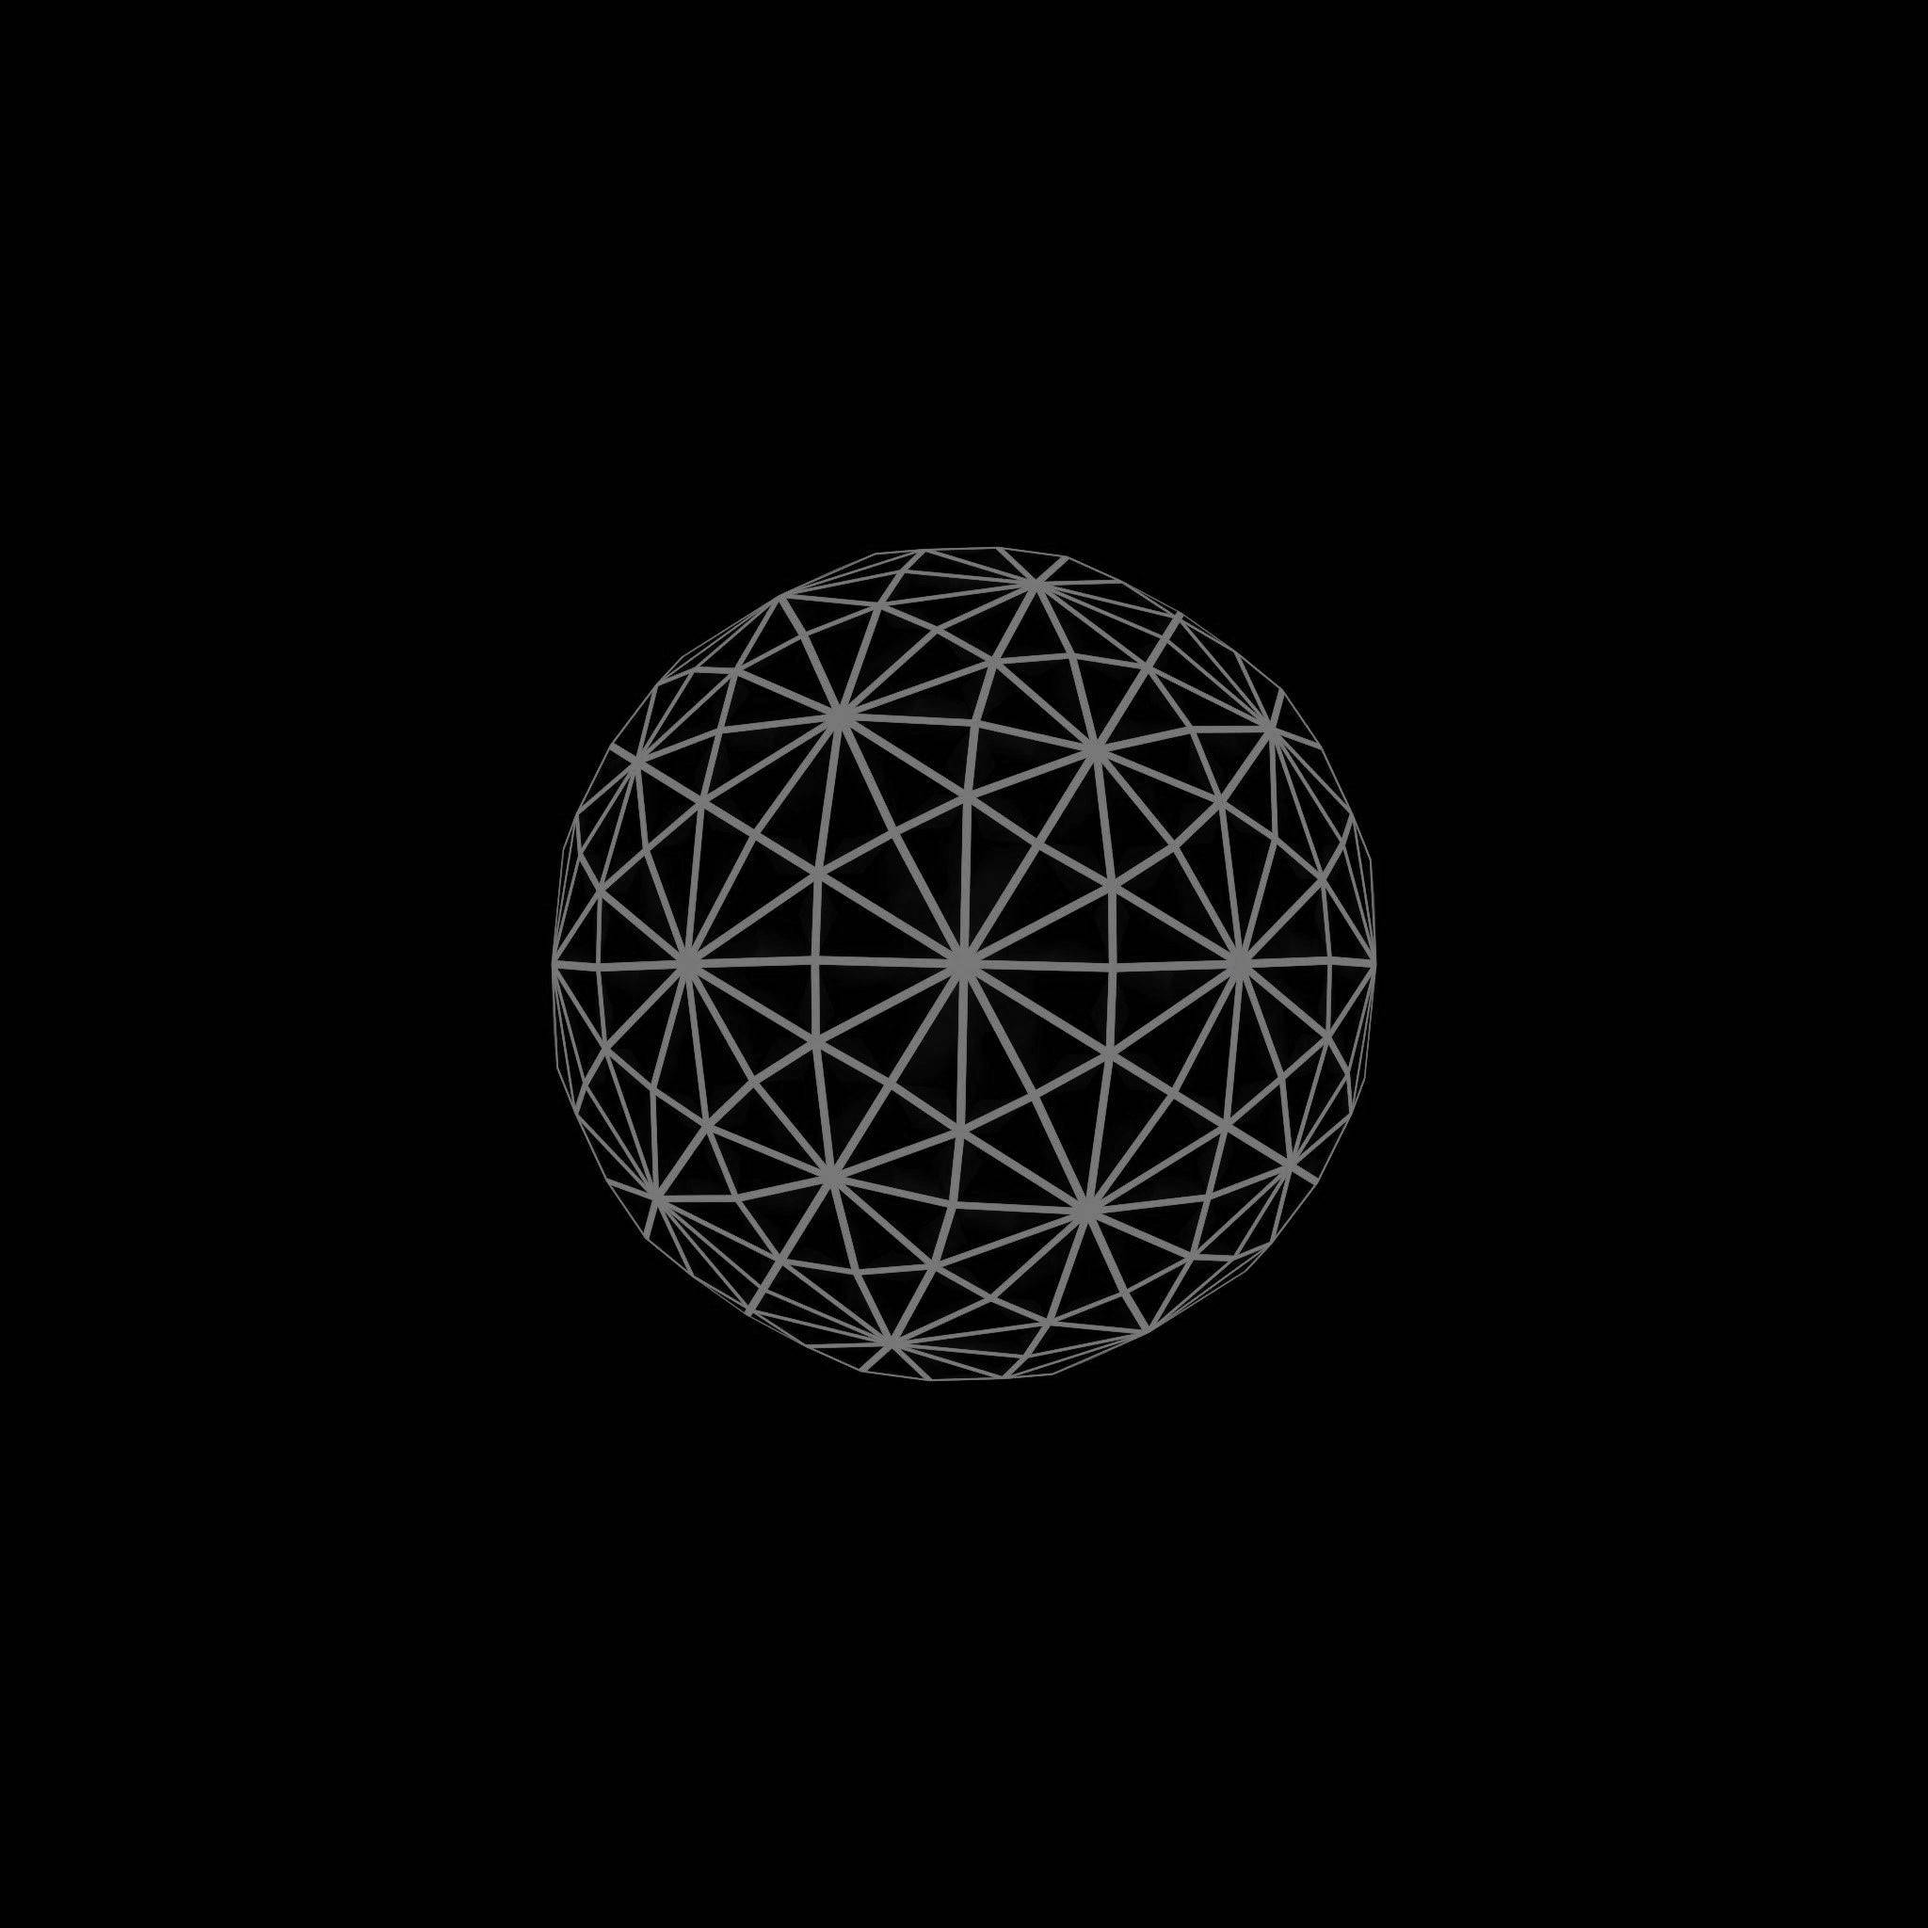
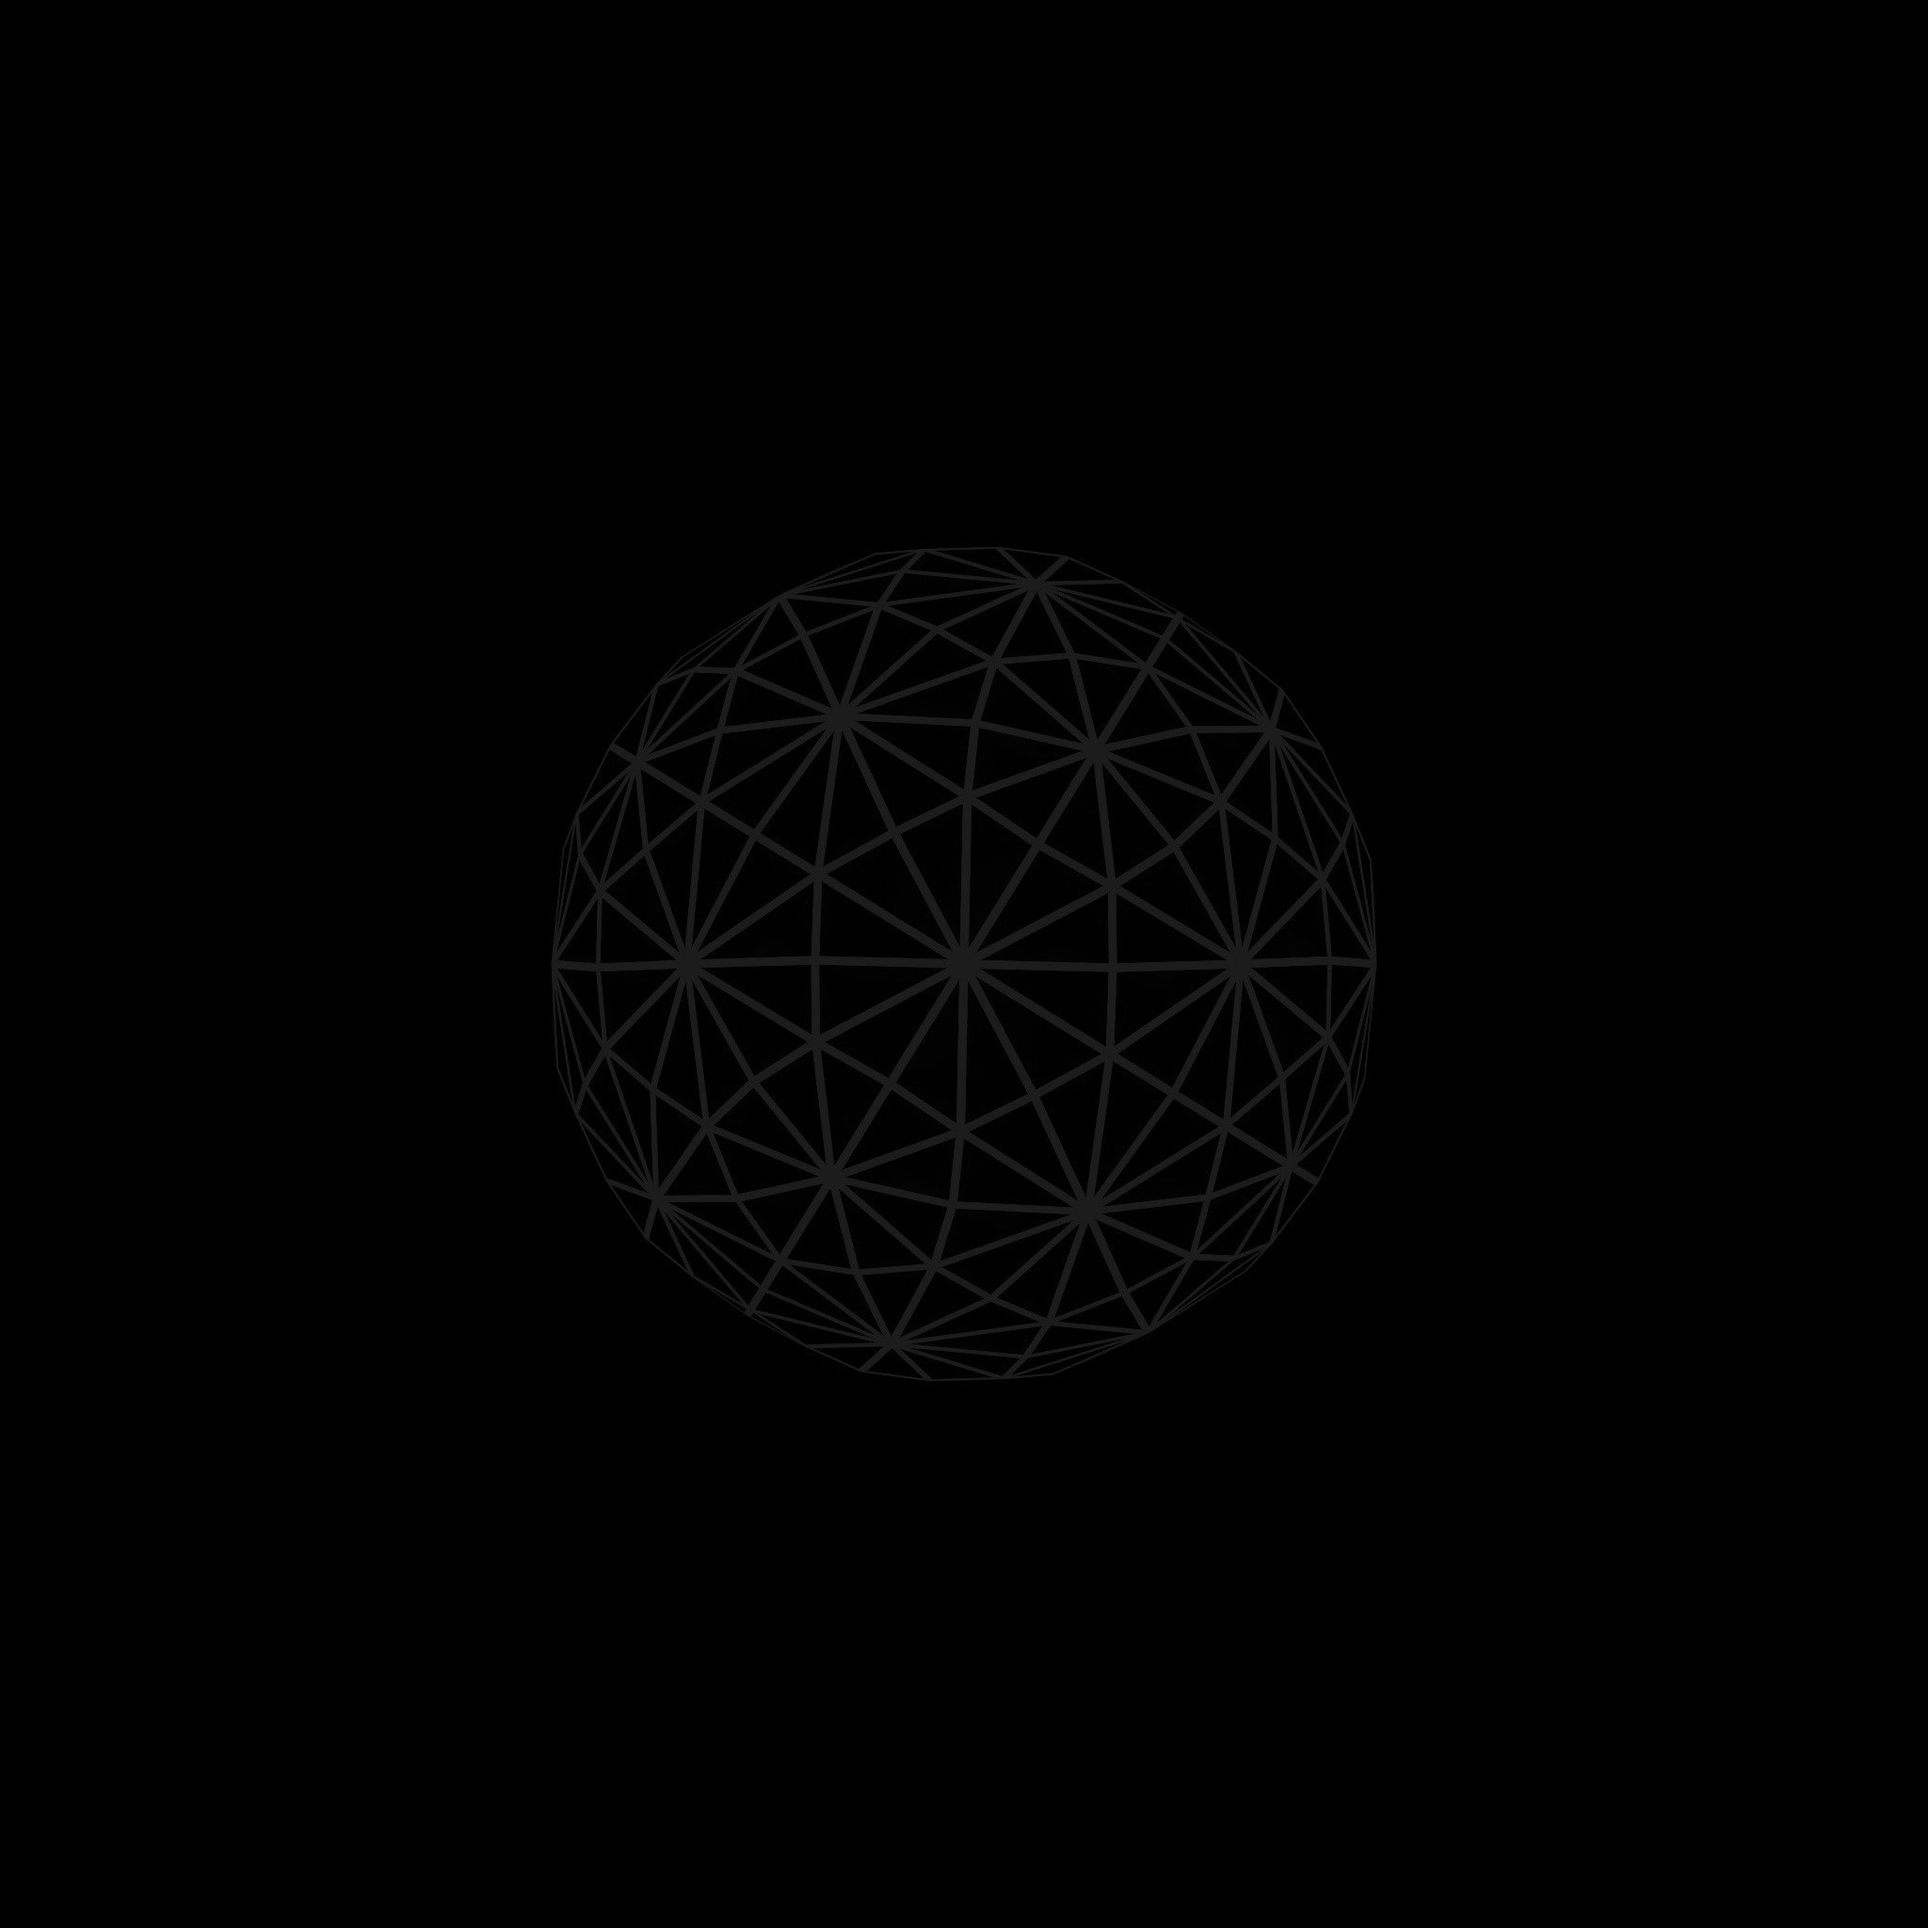
Create Posts! Better contrast w/ wallpaper too.

Changed region(s): [[0.2812, 0.2812, 0.7188, 0.7188]]

diff --git a/CYE/newpost.html b/CYE/newpost.html
@@ -6,13 +6,21 @@
 
         <link rel="preconnect" href="https://fonts.googleapis.com">
         <link rel="preconnect" href="https://fonts.gstatic.com" crossorigin>
-        <link href="https://fonts.googleapis.com/css2?family=Advent+Pro:ital,wght@0,100..900;1,100..900&display=swap" rel="stylesheet">
+        <link href="https://fonts.googleapis.com/css2?family=Playwrite+NG+Modern:wght@100..400&display=swap" rel="stylesheet">
 
         <title>Create a post on CYE</title>
         <link rel="icon" href="../logo.jpg"/>
         <link rel="stylesheet" href="../basic.css"/>
 
         <style>
+            body
+            {
+                justify-content: flex-start;
+                font-family: "Playwrite NG Modern", serif;
+                text-align: center;
+            }
+            a, button { font-family: 'Playwrite NG Modern'; }
+
             div
             {
                 display: flex;
@@ -23,6 +31,7 @@
 
             header
             {
+                font-size: 11px;
                 margin: 0px;
                 padding: 0;
                 top: 0;
@@ -38,6 +47,16 @@
 
                 z-index: 10;
             }
+
+            input, select, select > option, textarea
+            {
+                font-family: 'Playwrite NG Modern';
+                border: 0;
+                border-radius: 15px;
+                background: transparent;
+                color: #fff;
+            }
+            select > option { background: #111; text-align: center; }
         </style>
     </head>
     <body>
@@ -52,7 +71,38 @@
                 </div>
             </div>
         </header>
+
+        <div class="container">
+            <div class="backdrop">
+                <input id="title" style="margin-bottom: 0;" placeholder="Enter a Title..."/>
+                <div style="width: 5rem; margin: 5px; background: #fff; height: 3px; border-radius: 25px;"></div>
+                <p id="author" style="margin: 0;"></p>
+                <select id="level" style="margin-top: 0;">
+                    <option value="Easy" selected>Easy</option>
+                    <option value="Medium">Medium</option>
+                    <option value="Hard">Hard</option>
+                </select>
+            </div>
+            
+            <div class="backdrop">
+                <textarea id="description" style="font-style: italic;" placeholder="Enter a Description..."></textarea>
+                <p>...</p>
+                <textarea id="question" style="font-weight: 500;" placeholder="Enter the Question..."></textarea>
+            </div>
+    
+            <div class="backdrop" id="answerdiv">
+                <textarea id="answer" placeholder="Enter the correct Answer..."></textarea>
+                <strong>Explaination: </strong>
+                <textarea id="explaination" placeholder="Enter an Explaination"></textarea>
+            </div>
+        </div>
+        
+        <div style="margin: 20px;">
+            <button id="submitBtn">Submit</button>
+        </div>
     </body>
+    <script src="https://www.gstatic.com/firebasejs/11.1.0/firebase-app-compat.js"></script>
+    <script src="https://www.gstatic.com/firebasejs/11.1.0/firebase-firestore-compat.js"></script>
     <script type="module">
         import { initializeApp } from "https://www.gstatic.com/firebasejs/11.1.0/firebase-app.js";
         import { getAuth, onAuthStateChanged } from 'https://www.gstatic.com/firebasejs/11.1.0/firebase-auth.js';
@@ -71,28 +121,63 @@
         onAuthStateChanged(getAuth(initializeApp(firebaseConfig)), (user) =>
         {
             if (!user) window.location.href = '../auth.html?CYE/feed.html';
-        });
-    </script>
-    <script src="https://www.gstatic.com/firebasejs/11.1.0/firebase-app-compat.js"></script>
-    <script src="https://www.gstatic.com/firebasejs/11.1.0/firebase-firestore-compat.js"></script>
-    <script defer>
-        firebase.initializeApp
-        (
+            
+            firebase.initializeApp
+            (
+                {
+                    apiKey: "AIzaSyBDz4iOz98Us7RaNgOTAZ6PGsemBFW7k_A",
+                    authDomain: "xetuteauth.firebaseapp.com",
+                    projectId: "xetuteauth",
+                    storageBucket: "xetuteauth.firebasestorage.app",
+                    messagingSenderId: "500556520913",
+                    appId: "1:500556520913:web:381dc486949b1ae84694f0",
+                    measurementId: "G-VJFMP5F975"
+                }
+            );
+            let db = firebase.firestore();
+
+            let r = undefined;
+            async function createPost(data) { db.collection("CYE-Post").add(data).then((ref) => { r = ref; } ).catch((error) => { console.log(error); }); }
+            
+            let data =
             {
-                apiKey: "AIzaSyBDz4iOz98Us7RaNgOTAZ6PGsemBFW7k_A",
-                authDomain: "xetuteauth.firebaseapp.com",
-                projectId: "xetuteauth",
-                storageBucket: "xetuteauth.firebasestorage.app",
-                messagingSenderId: "500556520913",
-                appId: "1:500556520913:web:381dc486949b1ae84694f0",
-                measurementId: "G-VJFMP5F975"
+                Answer: "",
+                Author: user.displayName ? user.displayName : 'Anonymous',
+                Description: "",
+                Explaination: "",
+                Level: "",
+                Likes: 0,
+                Question: "",
+                Title: ""
+            };
+            if (!data.Author) alert("An unknown error occurred. We're sorry. Please check your internet connection and try again.");
+
+            async function main()
+            {
+                document.getElementById('author').textContent = data.author;
+
+                document.getElementById('submitBtn').addEventListener('click', () =>
+                {
+                    data.Answer = document.getElementById('answer').value;
+                    data.Description = document.getElementById('description').value;
+                    data.Explaination = document.getElementById('explaination').value;
+                    
+                    const n = document.getElementById('level').selectedIndex;
+                    if (n === 0) data.Level = "Easy"; // for Right Click => Inspect kids on the browser
+                    else if (n === 1) data.Level = "Medium";
+                    else if (n === 2) data.Level = "Hard";
+
+                    data.Question = document.getElementById('question').value;
+                    data.Title = document.getElementById('title').value;
+
+                    if (!data.Answer || !data.Description || !data.Explaination || !data.Question || !data.Title)
+                        alert("One field is still empty. Please correctly fill it out =)");
+
+                    createPost(data);
+                    window.location.href = `viewpost.html?${ref}`;
+                });
             }
-        );
-
-        let db = firebase.firestore();
-        db.enablePersistence();
-
-        async function createPost(data) { db.collection("CYE-Post").add(data).then((ref) => { return ref; } ).catch((error) => { return error; }); }
-        
+            main();
+        });
     </script>
 </html>

diff --git a/CYE/feed.html b/CYE/feed.html
@@ -155,6 +155,7 @@
 
         function escapeXSS(str)
         {
+            if (!str) return str;
             return str
                 .replace(/&/g, "&amp;")
                 .replace(/</g, "&lt;")
@@ -169,14 +170,14 @@
                 <div class="feedelem" onclick="window.location.href='viewpost.html?${escapeXSS(id)}'">
                     <div style="width: 12.5%;"></div>
                     <div style="max-width: 50%;">
-                        <h3>${escapeXSS(post.Title.stringValue)}</h3>
-                        <p>${escapeXSS(post.Description.stringValue)}</p>
-                        <p>${escapeXSS(post.Level.stringValue)}</p>
+                        <h3>${escapeXSS(post.Title?.stringValue)}</h3>
+                        <p>${escapeXSS(post.Description?.stringValue)}</p>
+                        <p>${escapeXSS(post.Level?.stringValue)}</p>
                     </div>
                     <div style="width: 25%;"></div>
                     <div style="max-width: 50%;">
-                        <p>${escapeXSS(post.Likes.integerValue.toString())} 🤍</p>
-                        <p style="flex-direction: row;">—${escapeXSS(post.Author.stringValue)}</p>
+                        <p>${escapeXSS(post.Likes?.integerValue.toString())} 🤍</p>
+                        <p style="flex-direction: row;">—${escapeXSS(post.Author?.stringValue)}</p>
                     </div>
                     <div style="width: 12.5%;"></div>
                 </div>

diff --git a/CYE/viewpost.html b/CYE/viewpost.html
@@ -26,6 +26,7 @@
 
             header
             {
+                font-size: 11px;
                 margin: 0px;
                 padding: 0;
                 top: 0;
@@ -40,16 +41,6 @@
                 border-radius: 25px;
 
                 z-index: 10;
-            }
-
-            .backdrop
-            {
-                border-radius: 15px;
-                border: 2px solid #222;
-                padding: 8px;
-                margin: 8px;
-                backdrop-filter: blur(5px);
-                -webkit-backdrop-filter: blur(5px);
             }
         </style>
     </head>
@@ -183,7 +174,6 @@
             );
 
             const db = firebase.firestore();
-
             const id = window.location.search.substr(1);
 
             let data = await db.collection("CYE-Post").doc(id).get();

diff --git a/basic.css b/basic.css
@@ -138,3 +138,13 @@ input:hover, textarea:hover
 {
     margin: 8px;
 }
+
+.backdrop
+{
+    border-radius: 15px;
+    border: 2px solid #222;
+    padding: 8px;
+    margin: 8px;
+    backdrop-filter: blur(5px);
+    -webkit-backdrop-filter: blur(5px);
+}
